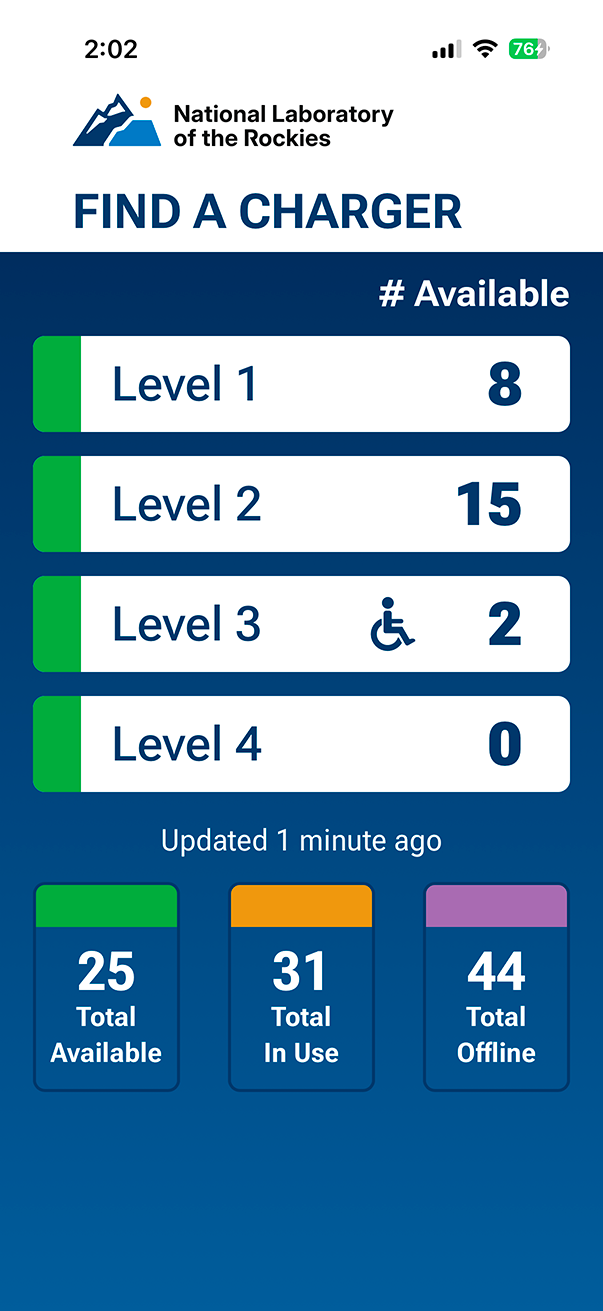
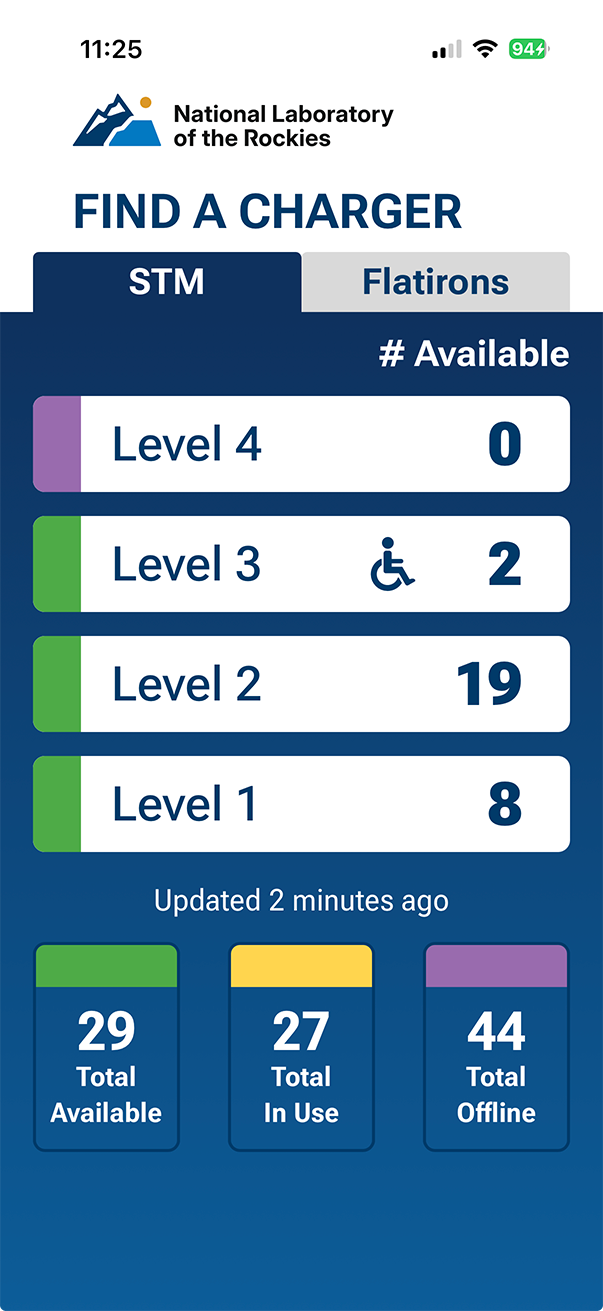
Added offline X

diff --git a/src/styles.css b/src/styles.css
@@ -13,6 +13,22 @@
   font-stretch: 70%;
 }
 
+:root {
+  --offline-cross-image:
+    linear-gradient(
+      to bottom right,
+      transparent calc(50% - 1px),
+      var(--color-nlr-navy) 50%,
+      transparent calc(50% + 1px)
+    ),
+    linear-gradient(
+      to top right,
+      transparent calc(50% - 1px),
+      var(--color-nlr-navy) 50%,
+      transparent calc(50% + 1px)
+    );
+}
+
 @layer base {
   *,
   *::before,

diff --git a/src/app/shared/level-status-header/level-status-header.html b/src/app/shared/level-status-header/level-status-header.html
@@ -45,7 +45,10 @@
         </div>
         <div class="flex items-center gap-1.5">
           <dt class="order-2">Offline</dt>
-          <dd class="h-3.5 w-8 rounded bg-offline" aria-label="Purple"></dd>
+          <dd
+            class="h-3.5 w-8 rounded bg-offline [background-image:var(--offline-cross-image)]"
+            aria-label="Purple with an X"
+          ></dd>
         </div>
       </dl>
     </div>

diff --git a/src/app/shared/parking-line/parking-line.css b/src/app/shared/parking-line/parking-line.css
@@ -65,7 +65,8 @@
 }
 
 .is-offline {
-  background: var(--color-offline);
+  background-color: var(--color-offline);
+  background-image: var(--offline-cross-image);
 }
 
 .is-non-charging {
